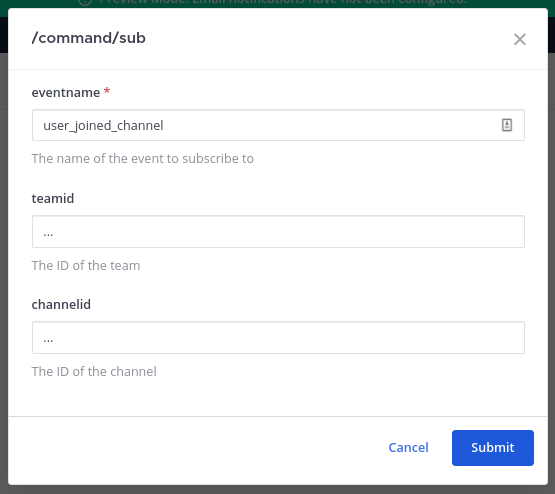
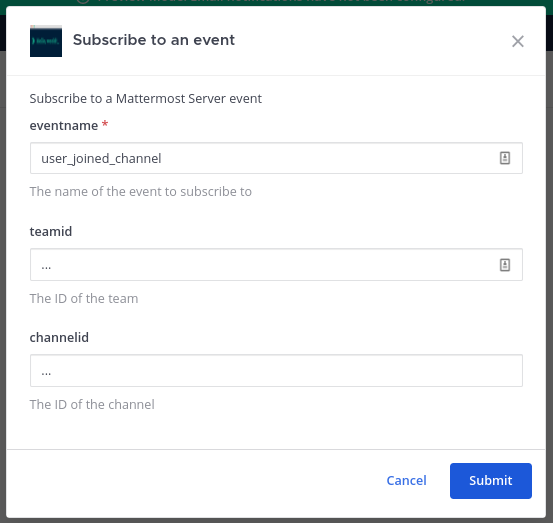
Improve screenshot of slash command autocomplete dialog; Update channel header click example and add screenshot of form

diff --git a/site/content/integrate/apps/structure/forms/_index.md b/site/content/integrate/apps/structure/forms/_index.md
@@ -147,10 +147,13 @@ The call request will include the App, user, post, root post (if any), channel, 
     "label": "sub",
     "description": "Subscribe to an event",
     "form": {
+        "title": "Subscribe to an event",
+        "header": "Subscribe to a Mattermost Server event",
+        "icon": "icon.png",
         "fields": [
             {
                 "name": "eventname",
-                "label": "event-name",
+                "label": "eventname",
                 "type": "text",
                 "subtype": "input",
                 "description": "The name of the event to subscribe to",
@@ -158,19 +161,22 @@ The call request will include the App, user, post, root post (if any), channel, 
             },
             {
                 "name": "teamid",
-                "label": "team-id",
+                "label": "teamid",
                 "type": "text",
                 "subtype": "input",
                 "description": "The ID of the team"
             },
             {
                 "name": "channelid",
-                "label": "channel-id",
+                "label": "channelid",
                 "type": "text",
                 "subtype": "input",
                 "description": "The ID of the channel"
             }
-        ]
+        ],
+        "submit": {
+            "path": "/sub",
+        }
     }
 }
 ```
@@ -182,10 +188,13 @@ The call request will include the App, user, post, root post (if any), channel, 
     "label": "sub",
     "description": "Subscribe to an event",
     "form": {
+        "title": "Subscribe to an event",
+        "header": "Subscribe to a Mattermost Server event",
+        "icon": "icon.png",
         "fields": [
             {
                 "name": "eventname",
-                "label": "event-name",
+                "label": "eventname",
                 "type": "text",
                 "subtype": "input",
                 "description": "The name of the event to subscribe to",
@@ -194,7 +203,7 @@ The call request will include the App, user, post, root post (if any), channel, 
             },
             {
                 "name": "teamid",
-                "label": "team-id",
+                "label": "teamid",
                 "type": "text",
                 "subtype": "input",
                 "description": "The ID of the team",
@@ -202,13 +211,16 @@ The call request will include the App, user, post, root post (if any), channel, 
             },
             {
                 "name": "channelid",
-                "label": "channel-id",
+                "label": "channelid",
                 "type": "text",
                 "subtype": "input",
                 "description": "The ID of the channel",
                 "position": 3
             }
-        ]
+        ],
+        "submit": {
+            "path": "/sub",
+        }
     }
 }
 ```
@@ -233,38 +245,45 @@ POST /plugins/com.mattermost.apps/api/v1/call HTTP/1.1
 Content-Type: application/json
 
 {
-    "path": "/send-modal/submit",
-    "context": {
-        "app_id": "helloworld",
-        "location": "send-button",
-        "channel_id": "ytqokpzzcinszf7ywrbdfitusw",
-        "team_id": "t35b8k7hginoujwn76tfatue5e",
-        "user_agent": "webapp"
+    "path":"/send",
+    "context":{
+        "app_id":"hello-world",
+        "location":"/channel_header/send-button",
+        "channel_id":"zot5mcxxcfbqddgif88sji6ziy",
+        "team_id":"143qpkqxfiy5xqqf33w51w8abe",
+        "track_as_submit":true,
+        "user_agent":"webapp"
     },
-    "expand": {}
+    "expand":{}
 }
 ```
 {{</collapse>}}
 {{<collapse id="click_channel_header-mm_submit_request" title="MM submit request">}}
 ```http request
-POST /plugins/com.mattermost.apps/example/hello/send-modal/submit HTTP/1.1
+POST /send HTTP/1.1
 Content-Type: application/json
 
 {
-    "path": "/send-modal/submit",
+    "path": "/send",
     "expand": {},
     "context": {
-        "app_id": "helloworld",
-        "location": "send-button",
-        "bot_user_id": "i4wzxbk1hbbufq8rnecso96oxr",
-        "acting_user_id": "81bqom3kjjbo7bcjcnzs6dc8uh",
-        "team_id": "t35b8k7hginoujwn76tfatue5e",
-        "channel_id": "ytqokpzzcinszf7ywrbdfitusw",
-        "mattermost_site_url": "http://localhost:8065",
+        "app_id": "hello-world",
+        "location": "/channel_header/send-button",
         "user_agent": "webapp",
-        "bot_access_token": "sqo3nwt377ys3co78jzye3cwmw"
+        "track_as_submit": true,
+        "mattermost_site_url": "http://mattermost:8066",
+        "developer_mode": true,
+        "app_path": "/plugins/com.mattermost.apps/apps/hello-world",
+        "bot_user_id": "mgbd1czngjbbdx6eqruqabdeie",
+        "bot_access_token": "fpbrjjnp5if59fazjjn794f3zy",
+        "acting_user": {
+            "id": "7q7kaakokfdsdycy3pr9ctkc5r"
+            // additional fields omitted for brevity
+        },
+        "oauth2": {}
     }
 }
+
 ```
 {{</collapse>}}
 {{<collapse id="click_channel_header-app_form_response" title="App form response">}}
@@ -278,18 +297,27 @@ Content-Type: application/json
             {
                 "type": "text",
                 "name": "message",
-                "label": "message"
+                "label": "Message"
             },
             {
                 "type": "user",
                 "name": "user",
-                "label": "user",
-                "refresh": true
+                "label": "User"
             },
             {
-                "type": "dynamic_select",
-                "name": "lookup",
-                "label": "lookup"
+                "type": "static_select",
+                "name": "option",
+                "label": "Option",
+                "options": [
+                    {
+                        "label": "Option One",
+                        "value": "option_1"
+                    },
+                    {
+                        "label": "Option Two",
+                        "value": "option_2"
+                    }
+                ]
             }
         ],
         "call": {
@@ -298,6 +326,7 @@ Content-Type: application/json
     }
 }
 ```
+![Screenshot of form](click-channel-header-response-form.png)
 {{</collapse>}}
 
 ### Select from a user field in a modal dialog
